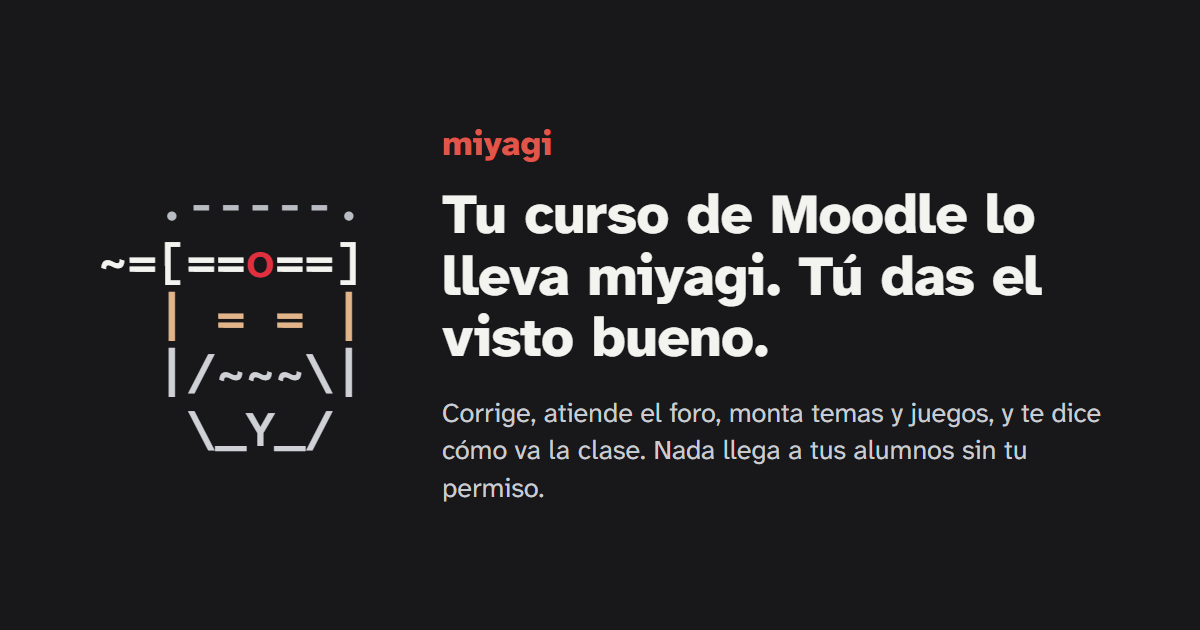
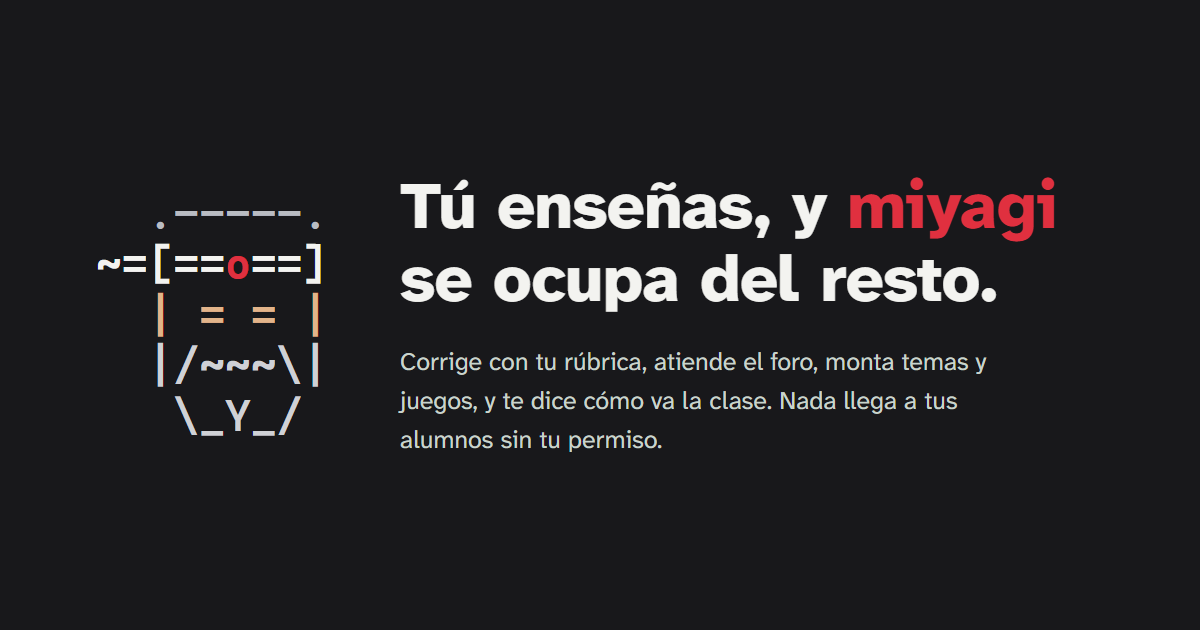
feat(site): lema nuevo, «Tú enseñas, y miyagi se ocupa del resto»
El titular anterior («Tu curso de Moodle lo lleva miyagi») sonaba a delegar
el curso entero y nombraba la plataforma, y miyagi podría adaptarse a otras
además de Moodle. El nuevo pone al profesor en lo suyo, enseñar, y a miyagi
en el resto. «miyagi» va como en el logotipo: Atkinson 800 en el rojo del sol
(el rojo claro del logo en modo oscuro).

El antetítulo pasa a «Asistente de IA para llevar tu aula virtual», sin
plataforma; Moodle sigue nombrado donde se habla de compatibilidad, porque
hoy es la única que admite. Cambian también el título de la pestaña, el lema
del sitio y la imagen para redes (og-es.png), con el mismo diseño.

Comprobado en claro y oscuro, a 390 y 1440 px, sin scroll horizontal.

Changed region(s): [[0.3392, 0.2111, 0.925, 0.8143], [0.0925, 0.3016, 0.3083, 0.7238]]

diff --git a/docs/src/pages/index.js b/docs/src/pages/index.js
@@ -242,14 +242,14 @@ function LatestRelease() {
 export default function Home() {
   const shot = useBaseUrl("/img/casos/40-aprobacion-foro.webp");
   return (
-    <Layout title="El asistente que lleva tu curso de Moodle" description="miyagi entra en tu curso de Moodle con tu cuenta de profesor: corrige con tu rúbrica, atiende el foro, monta temas, cuestionarios y juegos, escribe tu programación y te dice cómo va la clase. Nada llega a tus alumnos sin tu permiso.">
+    <Layout title="Tú enseñas, y miyagi se ocupa del resto" description="miyagi entra en tu curso de Moodle con tu cuenta de profesor: corrige con tu rúbrica, atiende el foro, monta temas, cuestionarios y juegos, escribe tu programación y te dice cómo va la clase. Nada llega a tus alumnos sin tu permiso.">
       <main className={s.landing}>
         <section className={s.hero} aria-labelledby="titulo">
           <div className={s.wrap}>
             <p className={s.heroBrand}><Logo />miyagi</p>
             <div>
-              <p className={s.kicker}>Asistente de IA de gestión de aulas Moodle para profesores</p>
-              <h1 id="titulo">Tu curso de Moodle lo lleva miyagi. Tú das el visto bueno.</h1>
+              <p className={s.kicker}>Asistente de IA para llevar tu aula virtual</p>
+              <h1 id="titulo">Tú enseñas, y <span className={s.brandWord}>miyagi</span> se ocupa del resto.</h1>
               <p className={s.lead}>Corrige con tu rúbrica, atiende el foro, monta temas, cuestionarios y juegos, y te dice cómo va la clase. Puedes enseñarle habilidades nuevas para adaptarlo a tu asignatura. Entra con tu cuenta de profesor y no publica nada sin tu permiso.</p>
               <div className={s.actions}>
                 <Link className={`${s.button} ${s.primary}`} to="/guia/instalar/">Instalar miyagi</Link>

diff --git a/docs/docusaurus.config.js b/docs/docusaurus.config.js
@@ -8,7 +8,7 @@ const repo = "https://github.com/falkenslab/miyagi";
 /** @type {import('@docusaurus/types').Config} */
 const config = {
   title: "miyagi",
-  tagline: "El asistente que lleva tu curso de Moodle y pregunta antes de publicar",
+  tagline: "Tú enseñas, y miyagi se ocupa del resto",
   favicon: "img/miyagi.svg",
   url: "https://falkenslab.github.io",
   baseUrl: "/miyagi/",

diff --git a/docs/src/pages/index.module.css b/docs/src/pages/index.module.css
@@ -229,3 +229,5 @@
 .heroBrand svg { width: clamp(3.6rem, 3rem + 3vw, 5.5rem); height: auto; }
 .bar svg { width: 1.6rem; height: auto; }
 .panel[hidden] { display: none; }
+/* The name in the headline as in the wordmark: Atkinson 800 in the sun's red (the logo's --logo-sun). */
+.brandWord { color: var(--logo-sun); }
